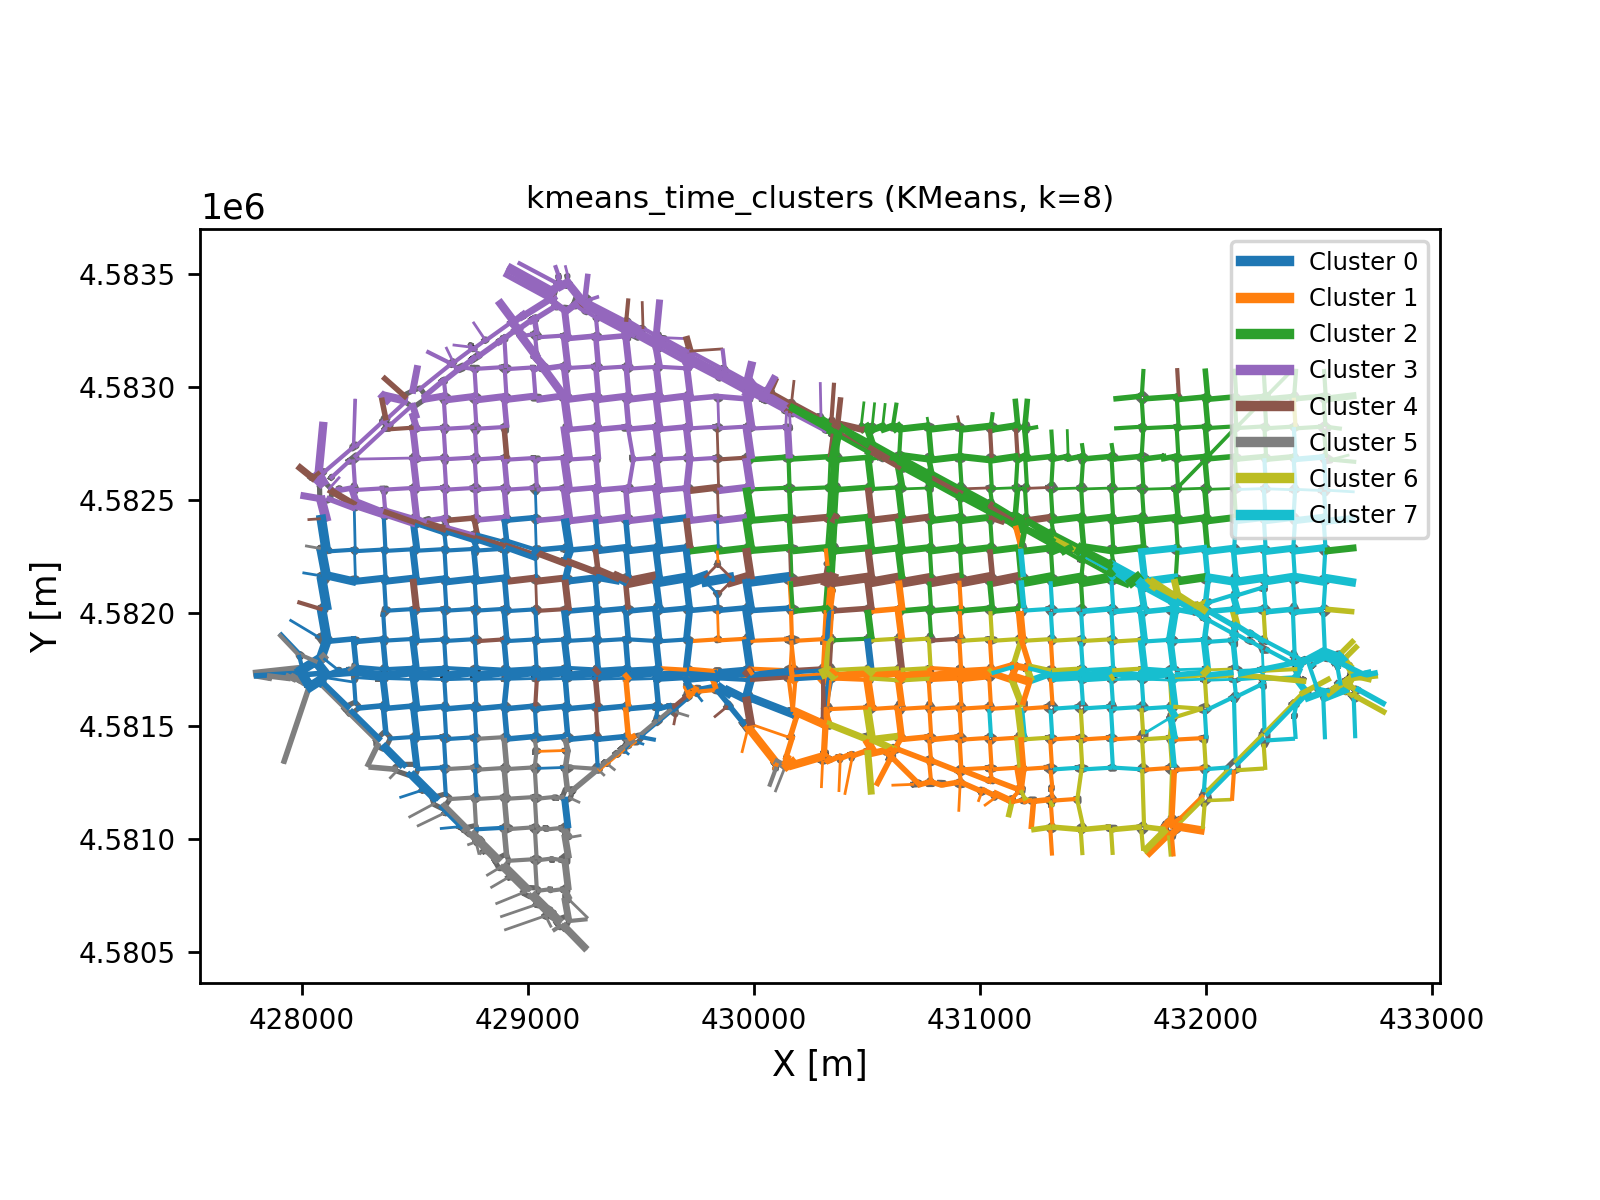
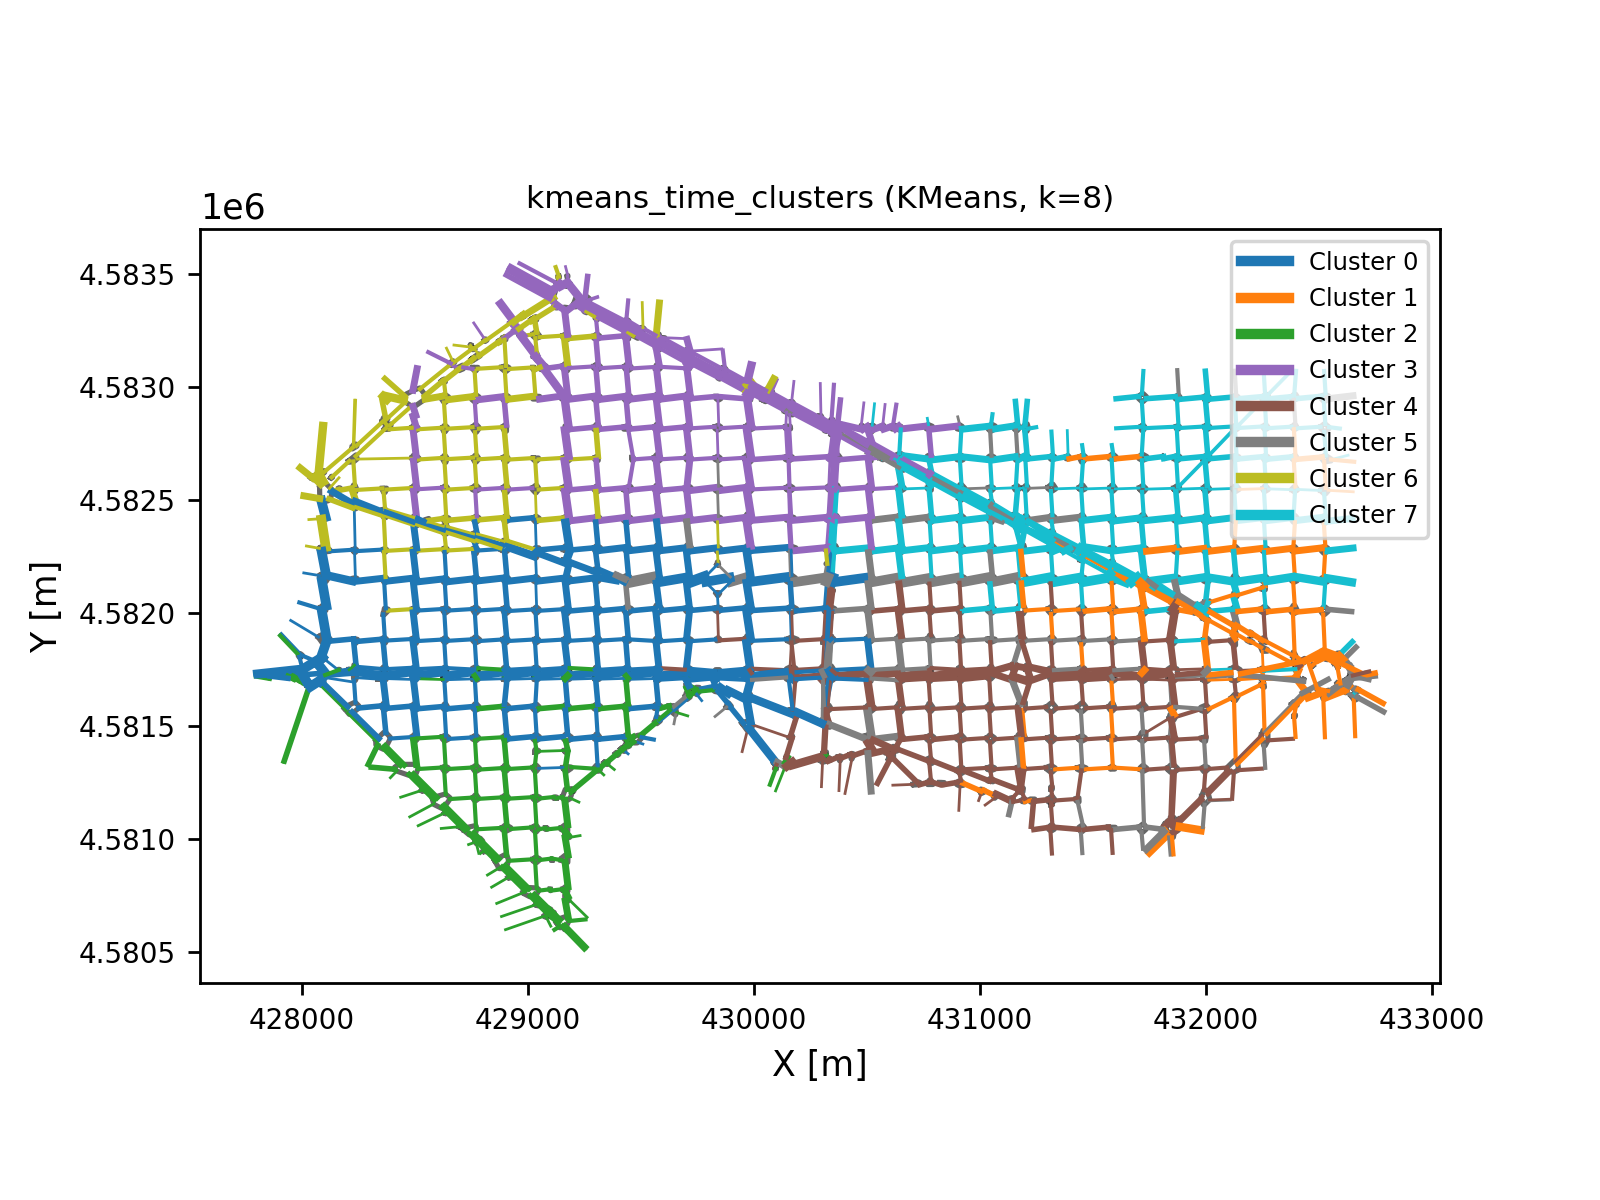
last update

diff --git a/main.py b/main.py
@@ -608,7 +608,7 @@ def temporal_cluster_features(profile, peak_mode, spatial_weight=2): #trial of 0
         filled.mean(axis=1),
         filled.std(axis=1),
         peak_time,
-        profile_components(rowwise_zscore(filled), n_components=6),# IMPORTANT TO CHANGE AS IT ONLY TAKES INTO ACCOUNT THE THREE VALUESSSSSSSS
+        profile_components(rowwise_zscore(filled), n_components=8),# IMPORTANT TO CHANGE AS IT ONLY TAKES INTO ACCOUNT THE THREE VALUESSSSSSSS
     ])
     spatial_features = np.column_stack([links["c_x"].to_numpy(), links["c_y"].to_numpy()])
     return np.hstack([
